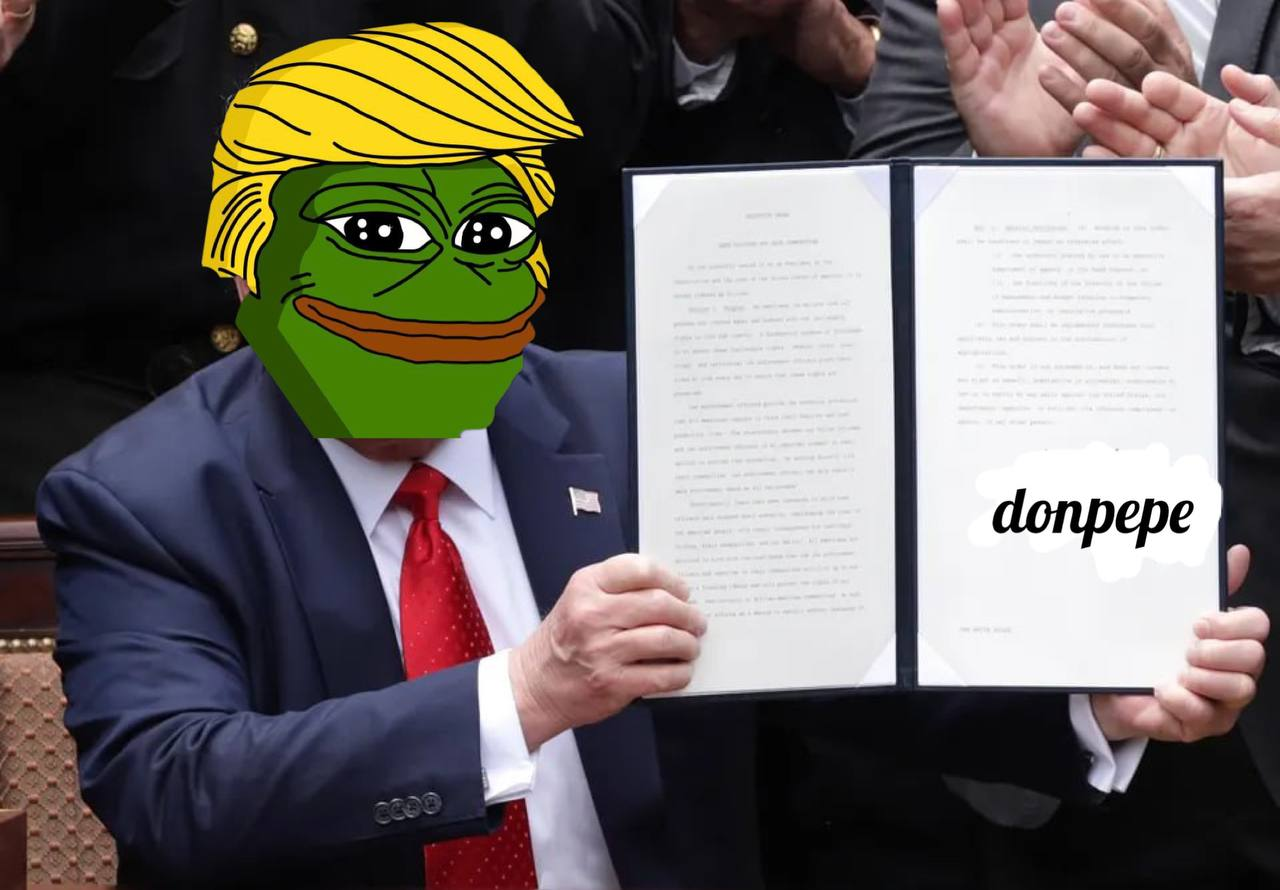
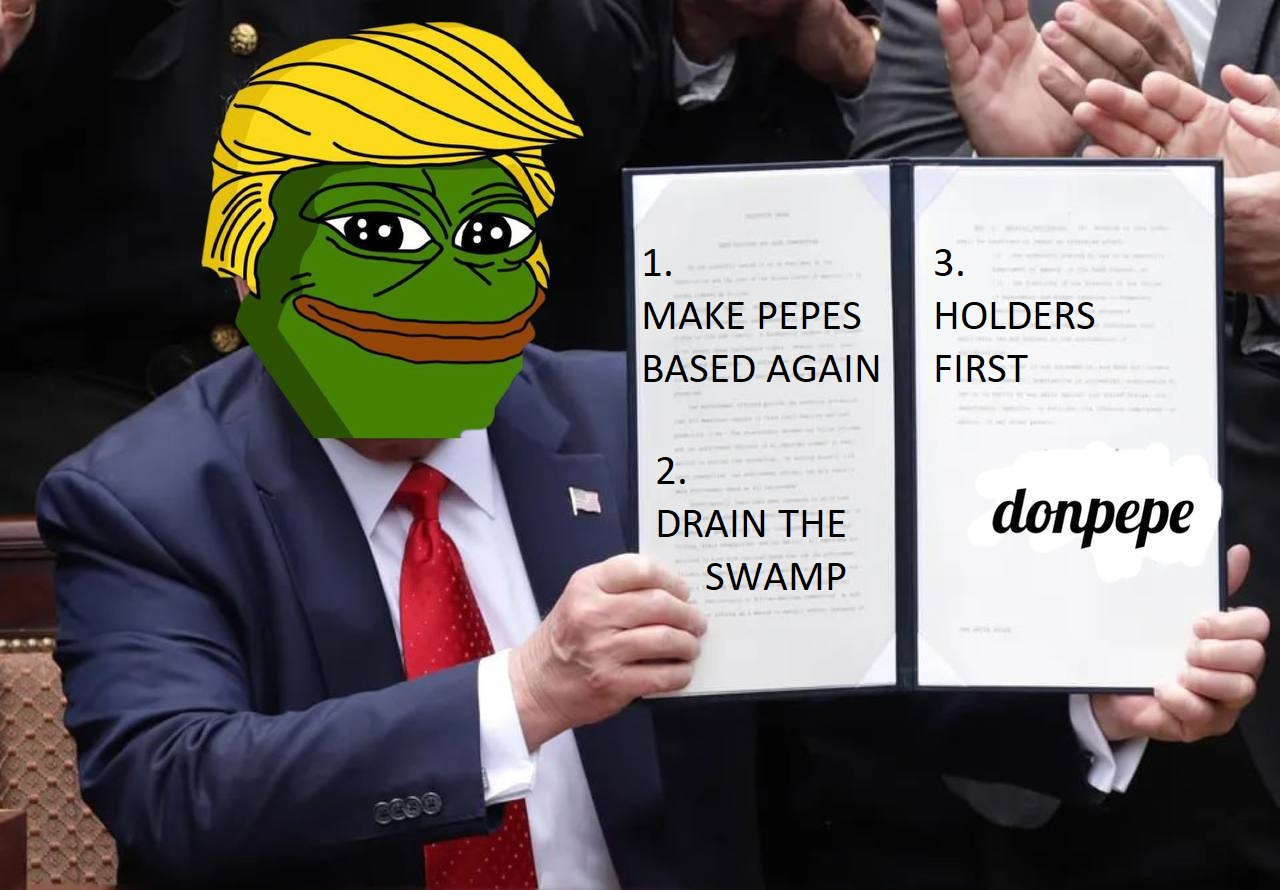
first

diff --git a/index.html b/index.html
@@ -24,50 +24,35 @@
     </div>
     <div id="content">
         <div id="vision"><h1><a href="https://www.youtube.com/watch?v=eTnVLioN0sY">vision</a></h1></div>
-        <div id="container">
-            <div id="texthalf">
-                <h2>
-                DONPEPE promises to:
-                <br/>
-                1. Make Pepes Based Again
-                <br/>
-                2. Put Holders First
-                <br/>
-                3. Drain the Swamp
-                </h2>
-            </div>
-            <div id="mediahalf">
-                <img src = "sign.jpg" width=80%>
-            </div>
-        </div>
+        <img src = "sign.jpg" width=40%>
         <div id="tokenomics"><h1><a href="https://www.youtube.com/watch?v=_HYMqlzSPZw">tokenomics</a></h1></div>
-        <img src = "tokenomics.png" width=18%><br/>
+        <h4>0.3% fee for team on every transfer goes to team wallet</h4>
         <div id="container">
             <table>
                 <tr>
                     <td><a href="https://etherscan.io/token/0xb9810b4cd134ebeb9dee2ec550699fff20236c27">TOKENS</a></td>
                     <td><a href="https://etherscan.io/token/0xb9810b4cd134ebeb9dee2ec550699fff20236c27?a=0x9d5dc830ad78015e6258406014d4445910dbb92d">LIQUIDITY</a></td>
-                    <td><a href="https://etherscan.io/token/0xb9810b4cd134ebeb9dee2ec550699fff20236c27?a=0xce377450e254b430dbcdeb4053e09348686165f5">MARKETING</a></td>
-                    <td><a href="https://etherscan.io/token/0xb9810b4cd134ebeb9dee2ec550699fff20236c27?a=0xea90eef2e4d3c642f42cba8acd1cc6f1583a82d0">TEAM</a></td>
                     <td><a href="https://etherscan.io/token/0xb9810b4cd134ebeb9dee2ec550699fff20236c27?a=0xd77a521b863758a3d3c73da3d31fe7f2dba44173">AIRDROP</a></td>
-                </tr>
-                <tr>
-                    <td>91.29%</td>
-                    <td>70.88%</td>
-                    <td>3%</td>
-                    <td>0</td>
-                    <td>26.13%</td>
+                    <td><a href="https://etherscan.io/token/0xb9810b4cd134ebeb9dee2ec550699fff20236c27?a=0xce377450e254b430dbcdeb4053e09348686165f5">MARKETING</a></td>
[1 lines of base64/hex data omitted]
                 </tr>
                 <tr>
                     <td>19,171,033,591</td>
                     <td>13,588,113,000</td>
-                    <td>879,354,000</td>
-                    <td>BURNED</td>
                     <td>5,024,880,000</td>
+                    <td>879,354,000</td>
+                    <td>1,828,966,409</td>
+                </tr>
+                <tr>
+                    <td></td>
+                    <td>63.1%</td>
+                    <td>24%</td>
+                    <td>4.2%</td>
+                    <td>8.7%</td>
                 </tr>
             </table>
         </div>
-        <h4>0.3% fee for team on every transfer goes to team wallet</h4>
+        <img src="barchart.jpg" width = 30%>
         <div id="links"><h1>links</h1></div>
         <div id="container">
             <table>
@@ -116,18 +101,145 @@
             </table>
         </div>
         <div id="rewards"><h1><a href="https://www.youtube.com/watch?v=9tXRRQVl9zs">rewards</a></h1></div>
+        <h3>Earn DONPEPE rewards by doing quests at <a href="https://zealy.io/c/donpepe">zealy.io/c/donpepe</a>!</h3>
+        <h3>Quests added daily, leaderboard reset weekly, rewards logged every Sunday.</h3>
         <div id="container">
-            <div id="texthalf">
-                <h3>DONPEPE is building an army of meme warriors to help spread his message to all corners of the internet and beyond.</h3>
-                <h3>By doing the quests at <a href="https://zealy.io/c/donpepe">zealy.io/c/donpepe</a>, you can earn millions of additional DONPEPE to add to your stacks!</h3>
-            </div>
-            <div id="mediahalf">
-                <img src = "rewards.jpg" width=100%>
-            </div>
+            <table>
+                <tr>
+                  <th>NAME</th>
+                  <th>TOTAL</th>
+                  <th>April 27th</th>
+                  <th>April 30th</th>
+                </tr>
+                <tr>
+                  <td>Wortigen</td>
+                  <td>8,000,000.00</td>
+                  <td>5,000,000</td>
+                  <td>3,000,000</td>
+                </tr>
+                <tr>
+                  <td>0xC7…Ac4e</td>
+                  <td>8,000,000.00</td>
+                  <td>5,000,000</td>
+                  <td>3,000,000</td>
+                </tr>
+                <tr>
+                  <td>pepegiuliani</td>
+                  <td>3,000,000.00</td>
+                  <td></td>
+                  <td>3,000,000</td>
+                </tr>
+                <tr>
+                  <td>gezerov</td>
+                  <td>8,000,000.00</td>
+                  <td>5,000,000</td>
+                  <td>3,000,000</td>
+                </tr>
+                <tr>
+                  <td>HDH</td>
+                  <td>3,000,000.00</td>
+                  <td></td>
+                  <td>3,000,000</td>
+                </tr>
+                <tr>
+                  <td>DONPEPE_42</td>
+                  <td>2,000,000.00</td>
+                  <td></td>
+                  <td>2,000,000</td>
+                </tr>
+                <tr>
+                  <td>elektropedro</td>
+                  <td>2,000,000.00</td>
+                  <td></td>
+                  <td>2,000,000</td>
+                </tr>
+                <tr>
+                  <td>Polka Bee</td>
+                  <td>7,000,000.00</td>
+                  <td>5,000,000</td>
+                  <td>2,000,000</td>
+                </tr>
+                <tr>
+                  <td>0x9d…79d2</td>
+                  <td>7,000,000.00</td>
+                  <td>5,000,000</td>
+                  <td>2,000,000</td>
+                </tr>
+                <tr>
+                  <td>0x91…c20D</td>
+                  <td>2,000,000.00</td>
+                  <td></td>
+                  <td>2,000,000</td>
+                </tr>
+                <tr>
+                  <td>CRTox</td>
+                  <td>2,000,000.00</td>
+                  <td></td>
+                  <td>2,000,000</td>
+                </tr>
+                <tr>
+                  <td>0x0c…4580</td>
+                  <td>1,000,000.00</td>
+                  <td></td>
+                  <td>1,000,000</td>
+                </tr>
+                <tr>
+                  <td>Gaz86</td>
+                  <td>1,000,000.00</td>
+                  <td></td>
+                  <td>1,000,000</td>
+                </tr>
+                <tr>
+                    <td>Gaz86</td>
+                    <td>1,000,000.00</td>
+                    <td></td>
+                    <td>1,000,000</td>
+                  </tr>
+                  <tr>
+                    <td>Kennex</td>
+                    <td>1,000,000.00</td>
+                    <td></td>
+                    <td>1,000,000</td>
+                  </tr>
+                  <tr>
+                    <td>Greensama</td>
+                    <td>1,000,000.00</td>
+                    <td></td>
+                    <td>1,000,000</td>
+                  </tr>
+                  <tr>
+                    <td>LakiForest</td>
+                    <td>1,000,000.00</td>
+                    <td></td>
+                    <td>1,000,000</td>
+                  </tr>
+                  <tr>
+                    <td>0xf6…d5d5</td>
+                    <td>1,000,000.00</td>
+                    <td></td>
+                    <td>1,000,000</td>
+                  </tr>
+                  <tr>
+                    <td>0xE2…c633</td>
+                    <td>1,000,000.00</td>
+                    <td></td>
+                    <td>1,000,000</td>
+                  </tr>
+                  <tr>
+                    <td>0x06…05B1</td>
+                    <td>1,000,000.00</td>
+                    <td></td>
+                    <td>1,000,000</td>
+                  </tr>
+                  <tr>
+                    <td>0x56…358b</td>
+                    <td>1,000,000.00</td>
+                    <td></td>
+                    <td>1,000,000</td>
+                  </tr>
+            </table>              
         </div>
-        <div id="rewards"></div>
-        <div id="container">
-        </div>
+        <div id="container"></div>
     </div>
     <div id="footer">
         <table>
